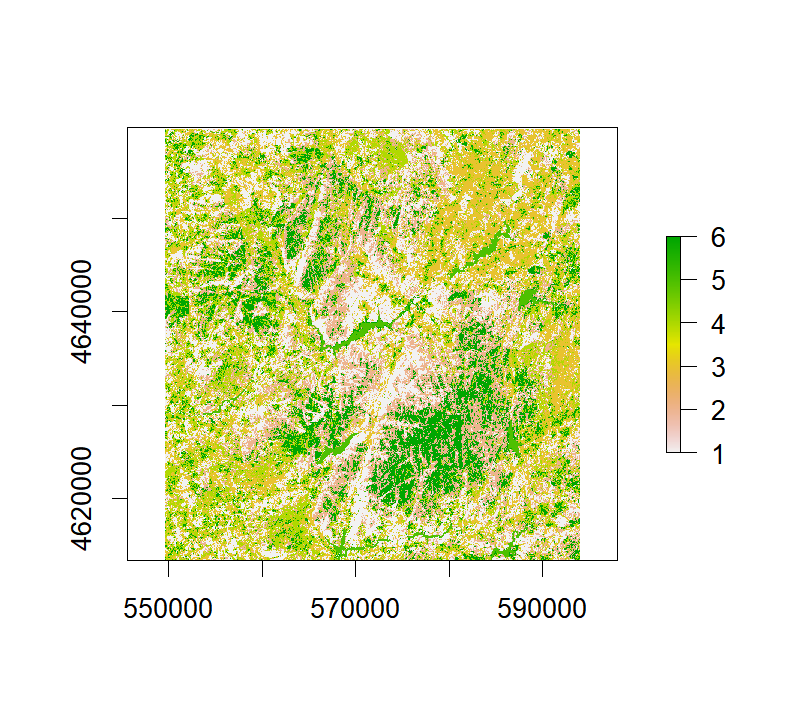
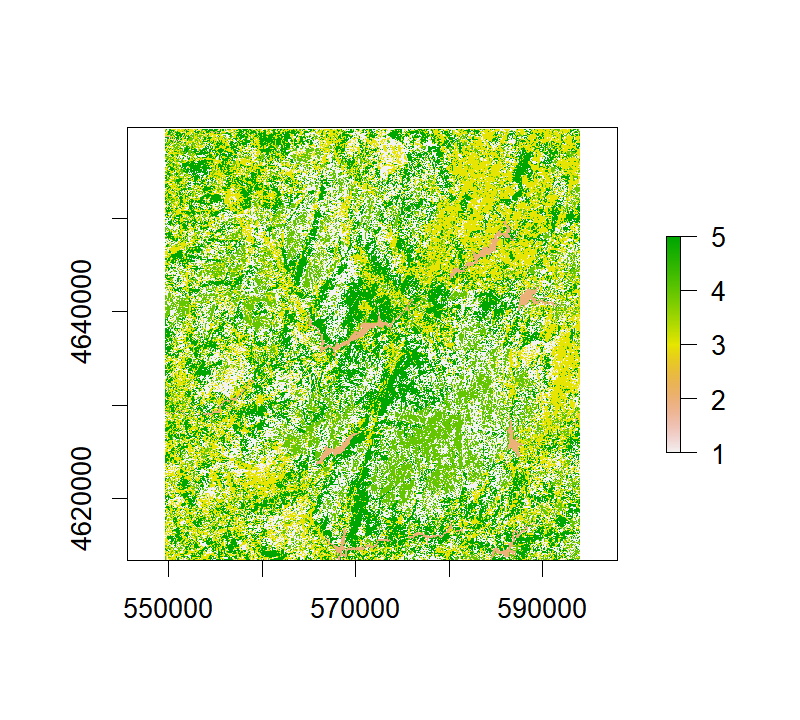
Changes in figure outputs

diff --git a/P7_rasterPackageAdvanced_I-v1.html b/P7_rasterPackageAdvanced_I-v1.html
@@ -243,6 +243,7 @@ rst &lt;- brick(&quot;./data-raw/LC82040312015193LGN00_sr_b_1_7.tif&quot;)
 names(rst) &lt;- paste(&quot;b&quot;,1:7,sep=&quot;&quot;)  </code></pre>
 <p>Plot the data in RGB display (bands 4,3,2) to see if everything is fine:</p>
 <pre class="r"><code>plotRGB(rst, r=4, g=3, b=2, scale=10000, stretch=&quot;lin&quot;, main=&quot;RGB composite (b4,b3,b2) of Landsat-8&quot;)</code></pre>
+<p><img src="img/P7_plot_rgb_LT8-1.png" width="400" /></p>
 <div class="figure">
 <img src="https://raw.githubusercontent.com/joaofgoncalves/R_exercises_raster_tutorial/master/img/P7_plot_rgb_LT8-1.png" />
 
@@ -445,7 +446,8 @@ write.csv(clustPerfSI, file = &quot;./data-raw/clustPerfSI.csv&quot;, row.names 
 <p>We can also make a plot for better comparing the two algorithms:</p>
 <pre class="r"><code>plot(clustPerfSI[,1], clustPerfSI[,2], 
      xlim = c(1,13), ylim = range(clustPerfSI[,2:3]), type = &quot;n&quot;, 
-     ylab=&quot;Avg. Silhouette Index&quot;, xlab=&quot;# of clusters&quot;)
+     ylab=&quot;Avg. Silhouette Index&quot;, xlab=&quot;# of clusters&quot;,
+     main=&quot;Silhouette index by # of clusters&quot;)
 
 # Plot Avg Silhouette values across # of clusters for K-means
 lines(clustPerfSI[,1], clustPerfSI[,2], col=&quot;red&quot;)
@@ -457,13 +459,14 @@ abline(v = 1:13, lty=2, col=&quot;light grey&quot;)
 abline(h = seq(0.30,0.44,0.02), lty=2, col=&quot;light grey&quot;)
 
 legend(&quot;topright&quot;, legend=c(&quot;K-means&quot;,&quot;CLARA&quot;), col=c(&quot;red&quot;,&quot;blue&quot;), lty=1, lwd=1)</code></pre>
+<p><img src="img/P7_silhouette_plot_clust_algos-1.png" width="360" /></p>
 <div class="figure">
 <img src="https://raw.githubusercontent.com/joaofgoncalves/R_exercises_raster_tutorial/master/img/P7_silhouette_plot_clust_algos-1.png" />
 
 </div>
 <p>From both the table and the plot we can see widely different results in terms of clustering performance with the <strong>k-means algorithm performing clearly better</strong>. This may be due to the fact that CLARA works on a subset of the data and hence is less capable of finding the best cluster centers. In addition, for the k-means algorithm, we can see that partioning the data into 5 groups/clusters seems to be the best option (although 6 also seems a perfectly reasonable solution).</p>
 <p>Finally let’s make a plot of the best solution according to the silhouette index:</p>
-<pre class="r"><code>plot(rstKM[[5]])</code></pre>
+<pre class="r"><code>plot(rstKM[[4]])</code></pre>
 <p><img src="img/P7_best_clust_solution-1.png" width="400" /></p>
 <div class="figure">
 <img src="https://raw.githubusercontent.com/joaofgoncalves/R_exercises_raster_tutorial/master/img/P7_best_clust_solution-1.png" />
